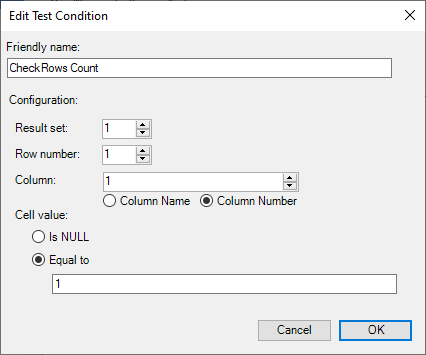
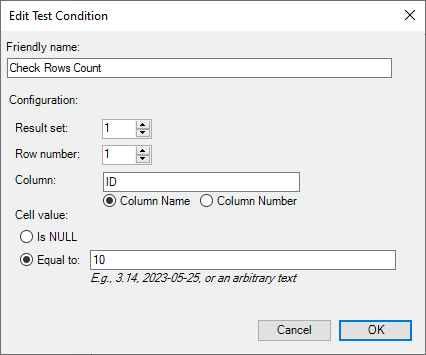
Update the 'Test condition' example with a screenshot

diff --git a/SystemCenterDocs/scom/sql-server-management-pack-custom-monitor.md b/SystemCenterDocs/scom/sql-server-management-pack-custom-monitor.md
@@ -71,7 +71,8 @@ To create a two-state custom query-based monitor, perform the following steps:
     - **Is NULL** is a true\false verification option. If the value is false, the monitor is unhealthy. Otherwise, the monitor is healthy.
     - Use **Equal to** to insert the specific value. If the result of the query matches the number value, the monitor is healthy. Otherwise, the monitor is unhealthy.
 
-      The **Equal to** option is for a single value only. It can't parse a range of values.
+      > [!NOTE]
+      > The **Equal to** option is culture-independent (invariant) for a single value only and can't parse a range of values. Example of use: *3.14*, *2023-05-25*, or an arbitrary text.
 
     You can make more than one condition by using the **OR** and **AND** operators. If you want to add, edit, or remove a condition, select the condition and use the appropriate button.
 
